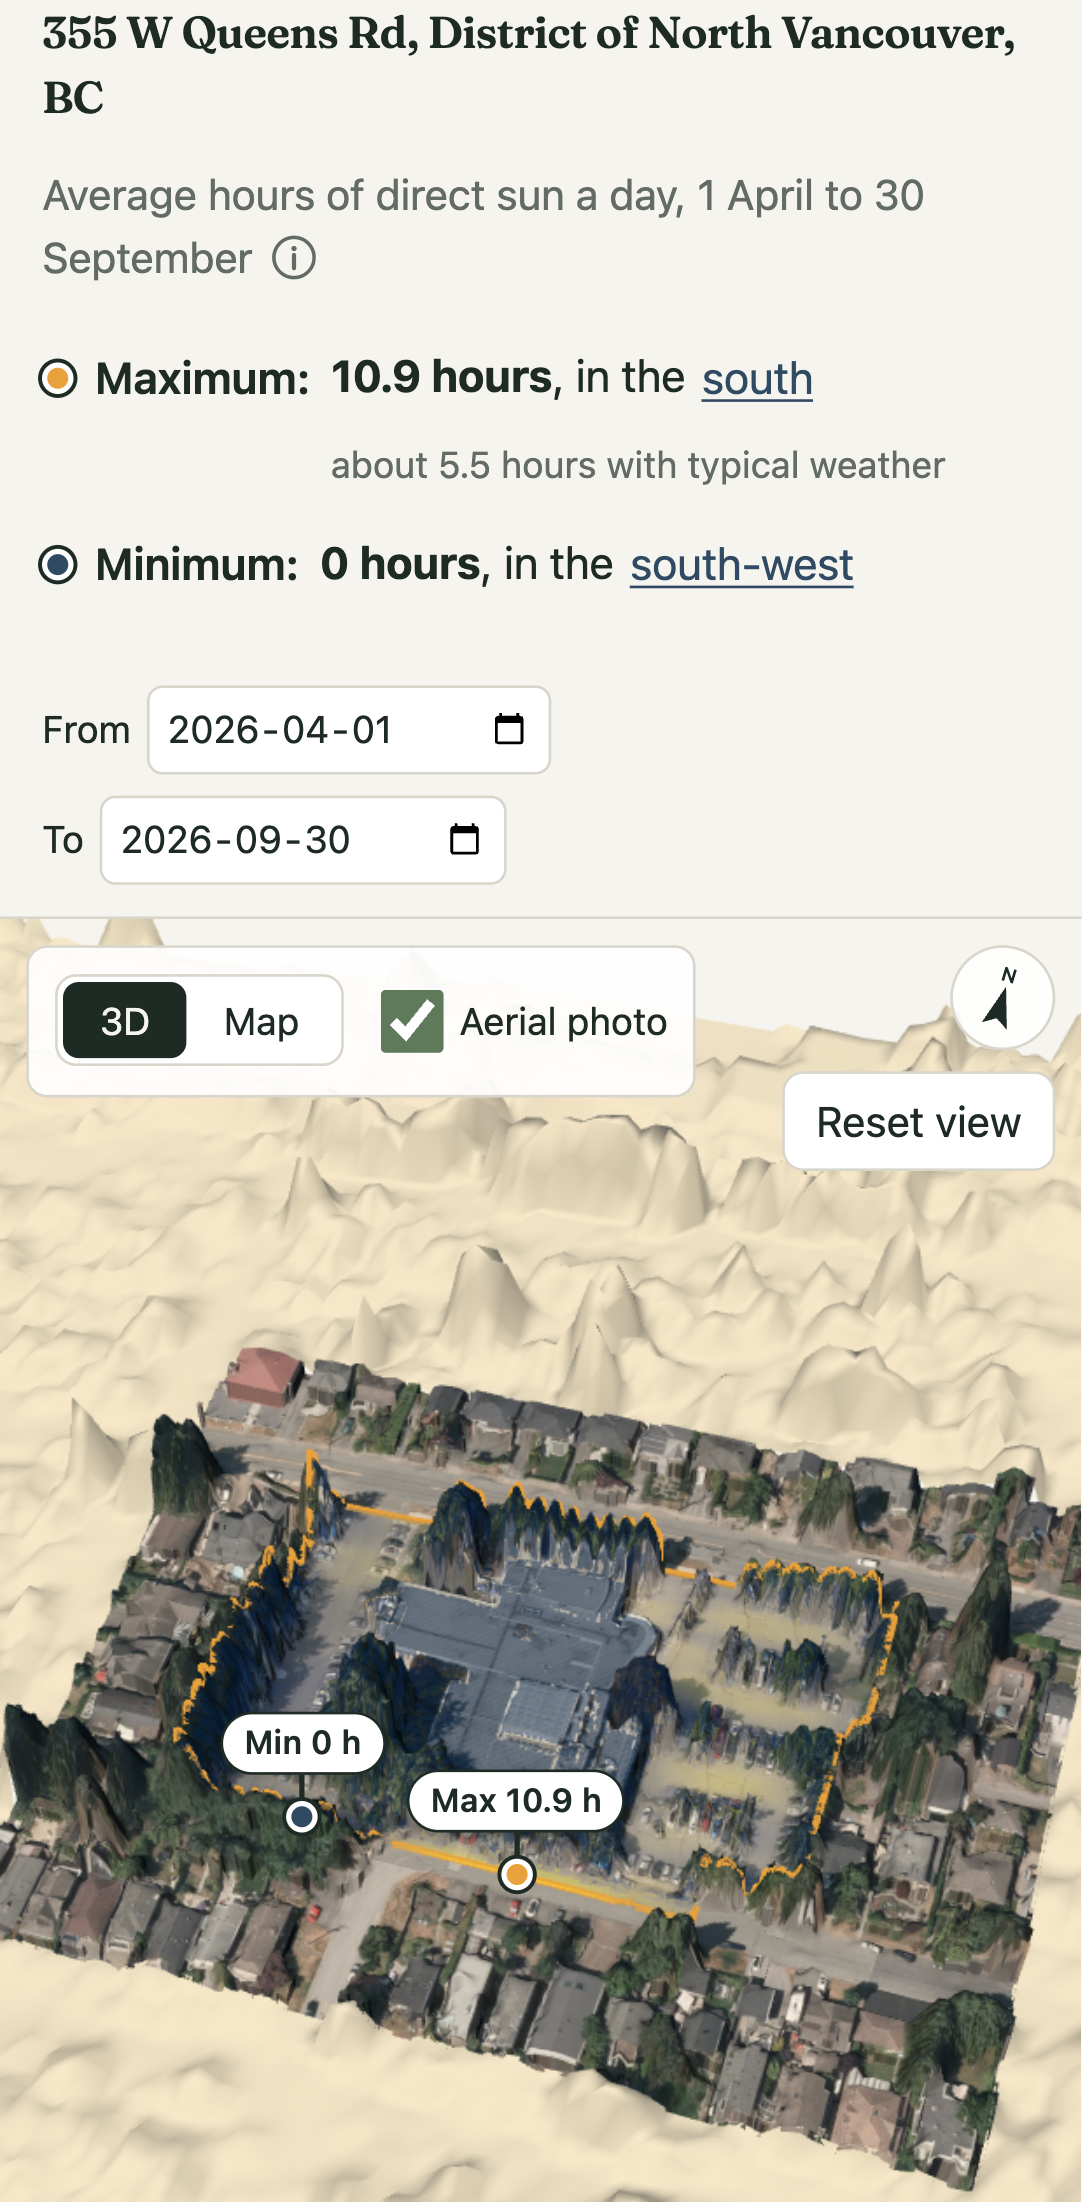
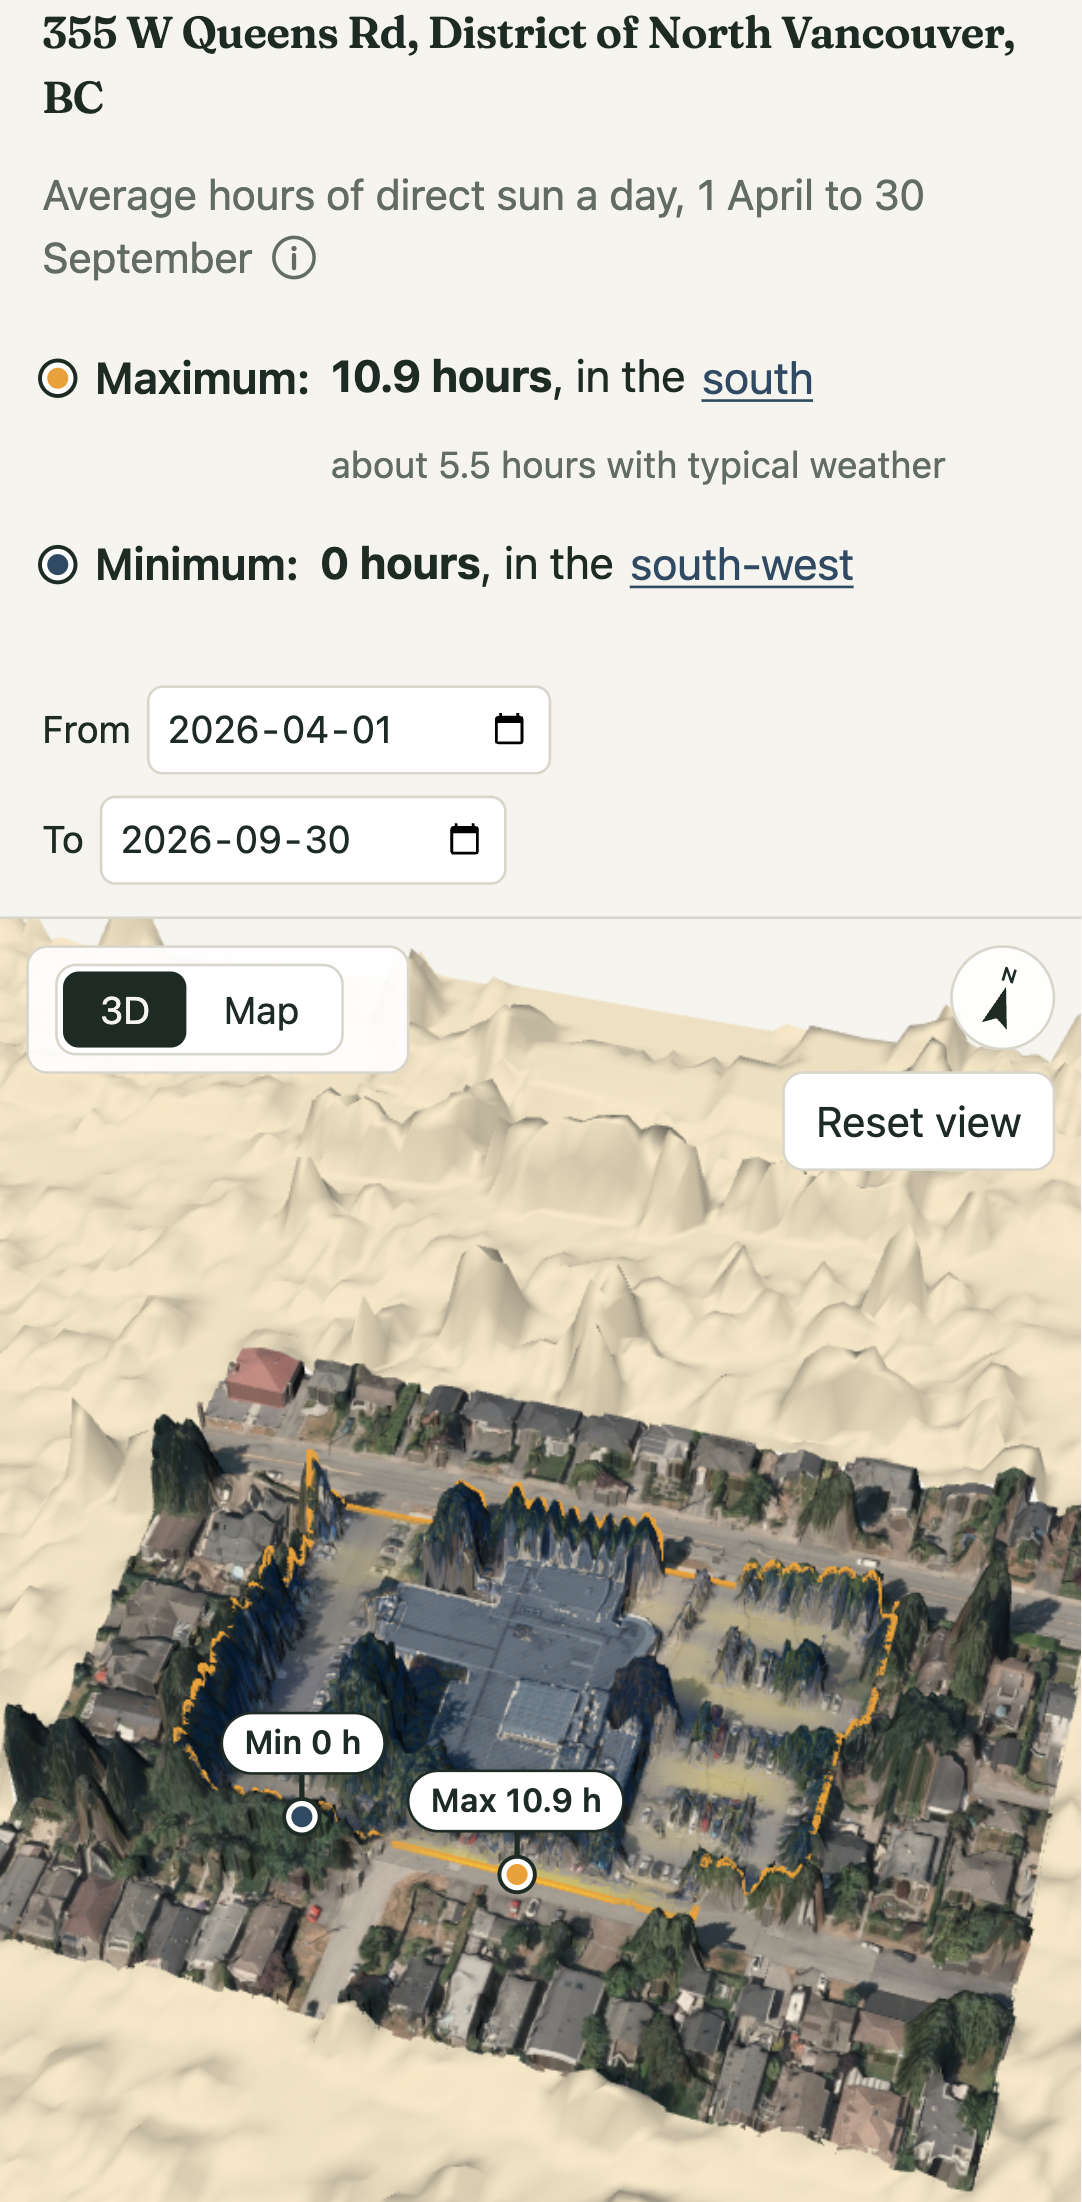
Aerial photo always on: drop its checkbox
The photo now shows in Basic and Advanced wherever the municipality
publishes one; there is no setting. Links no longer carry img=, and old
links with img=0 open with the photo on.

- The Advanced "Colour strength" slider appears only while a photo is on
  screen, and results go see-through only over a real photo (they used to
  fade over the plain model where there was none).
- Messages that mentioned switching the photo on or off are reworded.
- Docs, smoke test and README screenshots updated.

Changed region(s): [[0.0305, 0.4323, 0.6405, 0.525]]

diff --git a/src/analysis.ts b/src/analysis.ts
@@ -53,7 +53,6 @@ export interface AnalysisElements {
   resetView: HTMLButtonElement;
   caveatLidar: HTMLElement;
   aboutLidar: HTMLElement;
-  photoToggle: HTMLInputElement;
   opacityInput: HTMLInputElement;
   opacityWrap: HTMLElement;
   photoCredit: HTMLElement;
@@ -133,15 +132,12 @@ export class Analysis {
   private baseVintage: Vintage | null = null;
   private changesOn = false;
   private jurisdiction = '';
-  /** On by default; `photoChosen` says whether the visitor (or their link) asked for it. */
-  private photoOn = true;
-  private photoChosen = false;
   private opacity: number = IMAGERY.defaultOpacity;
   private photo: Photo | null = null;
   private photoSeq = 0;
   /** Called when the user switches between 3D and map (for the shareable URL). */
   onViewChange: (v: View) => void = () => {};
-  /** Called when the aerial photo or its opacity changes (for the shareable URL). */
+  /** Called when the results' opacity over the aerial photo changes (for the shareable URL). */
   onPhotoChange: () => void = () => {};
   /** Called when the elevation choice or the change overlay changes (for the shareable URL). */
   onSourceChange: () => void = () => {};
@@ -166,12 +162,7 @@ export class Analysis {
     els.shadowsToggle.addEventListener('change', () => this.scene?.setShadows(!this.basic && els.shadowsToggle.checked));
     els.compareToggle.addEventListener('change', () => void this.updateCompare());
     els.resetView.addEventListener('click', () => this.scene?.resetView());
-    els.photoToggle.addEventListener('change', () => {
-      this.setPhotoEnabled(els.photoToggle.checked);
-      this.onPhotoChange();
-    });
-    els.photoToggle.checked = this.photoOn;
-    els.opacityWrap.hidden = !this.photoOn;
+    els.opacityWrap.hidden = true; // until a photo is on screen
     els.opacityInput.addEventListener('input', () => {
       this.setResultsOpacity(Number(els.opacityInput.value));
       this.onPhotoChange();
@@ -281,22 +272,8 @@ export class Analysis {
     if (this.result) this.renderLegend(this.layer());
   }
 
-  get photoEnabled(): boolean {
-    return this.photoOn;
-  }
-
   get resultsOpacity(): number {
     return this.opacity;
-  }
-
-  /** Aerial photo under the results, in both views (also restores a shared link). */
-  setPhotoEnabled(on: boolean, chosen = true) {
-    this.photoOn = on;
-    this.photoChosen = chosen;
-    this.els.photoToggle.checked = on;
-    this.els.opacityWrap.hidden = !on;
-    this.applyOpacity();
-    void this.updatePhoto();
   }
 
   setResultsOpacity(opacity: number) {
@@ -307,7 +284,7 @@ export class Analysis {
 
   /** Results are see-through only over the photo; on the plain model they stay solid. */
   private applyOpacity() {
-    const op = this.photoOn ? this.opacity : 1;
+    const op = this.photo ? this.opacity : 1;
     this.scene?.setResultsOpacity(op);
     this.map.setLayerOpacity(op);
   }
@@ -316,13 +293,15 @@ export class Analysis {
     this.photo = null;
     this.scene?.setPhoto(null);
     this.map.setPhoto(null);
+    this.els.opacityWrap.hidden = true;
+    this.applyOpacity();
   }
 
   private async updatePhoto() {
     const seq = ++this.photoSeq;
     const credit = this.els.photoCredit;
     const lot = this.lot;
-    if (!this.photoOn || !this.loaded || !lot) {
+    if (!this.loaded || !lot) {
       this.clearPhoto();
       credit.hidden = true;
       return;
@@ -331,7 +310,7 @@ export class Analysis {
     const source = imageryFor(this.jurisdiction);
     if (!source) {
       this.clearPhoto();
-      credit.textContent = this.photoChosen ? copy.imagery.gap(this.jurisdiction) : copy.imagery.gapQuiet(this.jurisdiction);
+      credit.textContent = copy.imagery.gap(this.jurisdiction);
       return;
     }
     credit.textContent = copy.imagery.loading;
@@ -360,6 +339,8 @@ export class Analysis {
     this.photo = photo;
     this.scene?.setPhoto({ image: photo.image, uv: gridToPhotoUv(l.summary.window, photo.box) });
     this.map.setPhoto({ image: photo.image, affine: photoToLocal(photo.box, photo.image.width, photo.image.height, this.map.frame) });
+    this.els.opacityWrap.hidden = false;
+    this.applyOpacity();
   }
 
   /** Run the whole pipeline for a lot already drawn on the map. */
@@ -1162,7 +1143,7 @@ export class Analysis {
       ['Cells', `${s.cells.toLocaleString('en-CA')} at ${s.cellSizeM} m${s.dropped ? ` (${s.dropped} nodata dropped)` : ''}`],
       ['Window', `${s.window.width * s.window.res} × ${s.window.height * s.window.res} m, ${(100 * s.bufferNodataFrac).toFixed(1)}% nodata`],
       ['LiDAR', this.vintageText || '…'],
-      ['Aerial photo', this.photo ? `${this.photo.source.id}, ${this.photo.image.width} × ${this.photo.image.height} px` : this.photoOn ? 'none' : 'off'],
+      ['Aerial photo', this.photo ? `${this.photo.source.id}, ${this.photo.image.width} × ${this.photo.image.height} px` : 'none'],
       ['3D', this.scene ? `WebGL${isLowPower() ? ', low-power settings' : ''}` : this.sceneUnavailable ? 'unavailable' : '…'],
       ['Timings', Object.entries(this.timings).map(([k, v]) => `${k.replace(/Ms$/, '')} ${v} ms`).join(', ') + (this.threads > 1 ? ` (horizon on ${this.threads} threads)` : '')],
     ];

diff --git a/index.html b/index.html
@@ -101,7 +101,6 @@
               <label><input type="radio" name="view" value="map" /> Map</label>
             </fieldset>
             <div class="view-options">
-              <label class="check"><input type="checkbox" id="photo-toggle" /> Aerial photo</label>
               <label class="check" id="changes-wrap" hidden><input type="checkbox" id="changes-toggle" /> <span id="changes-label">Show changes</span></label>
               <label class="check opacity" id="opacity-wrap" hidden>Colour strength
                 <input type="range" id="results-opacity" min="0.2" max="1" step="0.05" value="0.5" aria-label="Colour strength over the photo" /></label>
@@ -342,7 +341,7 @@
         <li>BC Address Geocoder and ParcelMap BC: Province of British Columbia, <a href="https://www2.gov.bc.ca/gov/content?id=A519A56BC2BF44E4A008B33FCF527F61">Open Government Licence – British Columbia</a>.</li>
         <li>High Resolution Digital Elevation Model (HRDEM) and LiDAR point clouds (CanElevation): Natural Resources Canada, <a href="https://open.canada.ca/en/open-government-licence-canada">Open Government Licence – Canada</a>.</li>
         <li>Newer LiDAR surface and ground models (LidarBC, 2024 and 2025): Province of British Columbia, <a href="https://www2.gov.bc.ca/gov/content?id=A519A56BC2BF44E4A008B33FCF527F61">Open Government Licence – British Columbia</a>.</li>
-        <li id="about-imagery">Aerial photos, when switched on, come from each municipality's open data.</li>
+        <li id="about-imagery">Aerial photos come from each municipality's open data.</li>
         <li>Typical weather: sunshine normals for Vancouver and Abbotsford airports from Environment and Climate Change Canada, <a href="https://open.canada.ca/en/open-government-licence-canada">Open Government Licence – Canada</a>; local cloud from <a href="https://open-meteo.com/">Open-Meteo.com</a> historical weather (ECMWF and Copernicus ERA5), <a href="https://creativecommons.org/licenses/by/4.0/">CC BY 4.0</a>.</li>
         <li>Analysis answers are written by <a href="https://ai.google.dev/gemini-api">Google's Gemini</a>, from the lot's numbers shown here.</li>
         <li>Libraries: <a href="https://threejs.org/">three.js</a>, <a href="https://github.com/mourner/suncalc">SunCalc</a>, <a href="https://geotiffjs.github.io/">geotiff.js</a>, <a href="https://github.com/proj4js/proj4js">proj4js</a>, <a href="https://moment.github.io/luxon/">Luxon</a>, <a href="https://github.com/connormanning/copc.js">copc.js</a>, <a href="https://github.com/hobuinc/laz-perf">laz-perf</a>. Headings use <a href="https://github.com/undercasetype/Fraunces">Fraunces</a> (SIL Open Font License).</li>

diff --git a/src/main.ts b/src/main.ts
@@ -63,7 +63,6 @@ const analysisEls: AnalysisElements = {
   resetView: byId<HTMLButtonElement>('reset-view'),
   caveatLidar: byId('caveat-lidar'),
   aboutLidar: byId('about-lidar'),
-  photoToggle: byId<HTMLInputElement>('photo-toggle'),
   opacityInput: byId<HTMLInputElement>('results-opacity'),
   opacityWrap: byId('opacity-wrap'),
   photoCredit: byId('photo-credit'),
@@ -478,7 +477,6 @@ function urlDefaults(): UrlState {
     year: defaults.year,
     observer: defaults.observer,
     view: '3d',
-    photo: true,
     opacity: IMAGERY.defaultOpacity,
     source: 'best',
     changes: false,
@@ -510,7 +508,6 @@ function urlStateNow(): UrlState | null {
       start: c.preset === 'custom' ? c.start : undefined,
       end: c.preset === 'custom' ? c.end : undefined,
       view: analysis.currentView,
-      photo: analysis.photoEnabled,
       opacity: analysis.resultsOpacity,
       debug: debugOn,
       embed: embedOn,
@@ -528,7 +525,6 @@ function urlStateNow(): UrlState | null {
     time: minuteLabel(t.minute),
     observer: c.observer,
     view: analysis.currentView,
-    photo: analysis.photoEnabled,
     opacity: analysis.resultsOpacity,
     classes: c.classes,
     spots: c.spots,
@@ -587,7 +583,6 @@ async function applyUrl(hash: string): Promise<boolean> {
     analysis.chooseSource(s.source ?? 'best');
     analysis.setChangesEnabled(s.changes ?? false);
     analysis.setResultsOpacity(s.opacity ?? IMAGERY.defaultOpacity);
-    analysis.setPhotoEnabled(s.photo ?? true, s.photo !== undefined);
     setAdvanced(wantsAdvanced(s), false);
     const sameLot = shown && shown.match.fullAddress === s.address;
     if (sameLot && shown) {

diff --git a/tests/urlState.test.ts b/tests/urlState.test.ts
@@ -23,7 +23,6 @@ const full: UrlState = {
   shadeEnd: '2027-08-15',
   fromTime: '13:00',
   toTime: '18:30',
-  photo: true,
   opacity: 0.55,
   source: 'detailed',
   changes: true,
@@ -63,11 +62,14 @@ describe('URL hash state', () => {
     expect(decodeHash('#elev=everything&chg=maybe')).toEqual({});
   });
 
-  it('records turning off a default (the photo, the full / part sun / shade view, the pins)', () => {
-    expect(encodeHash({ photo: false, classes: false }, { photo: true, classes: true })).toBe('#cls=0&img=0');
-    expect(encodeHash({ spots: false }, { spots: true })).toBe('#spots=0');
+  it('records turning off a default (the full / part sun / shade view, the pins)', () => {
+    expect(encodeHash({ classes: false, spots: false }, { classes: true, spots: true })).toBe('#cls=0&spots=0');
     expect(decodeHash('#spots=maybe')).toEqual({});
-    expect(encodeHash({ photo: true, classes: true }, { photo: true, classes: true })).toBe('');
+    expect(encodeHash({ classes: true, spots: true }, { classes: true, spots: true })).toBe('');
+  });
+
+  it('ignores the old aerial photo setting: the photo is always on', () => {
+    expect(decodeHash('#a=453+W+12th+Ave&img=0')).toEqual({ address: '453 W 12th Ave' });
   });
 
   it('starts new visitors on the sun right now, with full / part sun / shade for days and seasons', () => {

diff --git a/e2e/smoke.spec.ts b/e2e/smoke.spec.ts
@@ -87,15 +87,13 @@ test('Basic: search → maximum and minimum hours → pins → dates → shareab
   await expect.poll(() => page.url()).toMatch(/cs=2026-06-01&ce=2026-06-30/);
   expect(page.url()).not.toMatch(/[#&](adv|t|m)=/);
 
-  // The pins follow to the map; the aerial photo is on by default and its setting goes into the link.
+  // The pins follow to the map. The aerial photo is always on, with no setting and nothing in the link.
   await page.locator('input[name="view"][value="map"]').check({ force: true });
   await expect(page.locator('.spot-pin:not([hidden])')).toHaveCount(2);
   await page.locator('input[name="view"][value="3d"]').check({ force: true });
-  await expect(page.locator('#photo-toggle')).toBeChecked();
-  await expect(page.locator('#photo-credit')).toContainText('City of Vancouver');
-  await page.locator('#photo-toggle').uncheck();
-  await expect.poll(() => page.url()).toMatch(/img=0/);
-  await page.locator('#photo-toggle').check();
+  await expect(page.locator('#photo-toggle')).toHaveCount(0);
+  await expect(page.locator('#photo-credit-item')).toContainText('City of Vancouver');
+  expect(page.url()).not.toMatch(/[#&]img=/);
 
   // A fresh page restores the lot and the dates in Basic.
   const shared = await context.newPage();

diff --git a/src/copy.ts b/src/copy.ts
@@ -115,12 +115,10 @@ export const copy = {
   lidarNearLot: (label: string) => `${label}, near the lot`,
   imagery: {
     loading: 'Loading the aerial photo…',
-    gap: (jurisdiction: string) => `No open aerial photo is published for ${jurisdiction}, so the view stays plain.`,
-    /** The same, when the photo is only on because it's the default. */
-    gapQuiet: (jurisdiction: string) => `No aerial photo is published for ${jurisdiction}; showing the 3D model.`,
+    gap: (jurisdiction: string) => `No aerial photo is published for ${jurisdiction}; showing the 3D model.`,
     noCoverage: (owner: string) => `The ${owner} aerial photo doesn't cover this lot.`,
-    failed: "The aerial photo didn't load. Try switching it off and on again in a moment.",
-    about: (items: string[]) => `Aerial photos, when switched on, come from each municipality's open data: ${items.join('; ')}.`,
+    failed: "The aerial photo didn't load; showing the 3D model. Reload the page to try again.",
+    about: (items: string[]) => `Aerial photos come from each municipality's open data: ${items.join('; ')}.`,
   },
   lidarFact: 'LiDAR from',
   lidarValue: (label: string, date: string) => `${date.slice(0, 4)} (${label})`,

diff --git a/src/urlState.ts b/src/urlState.ts
@@ -27,8 +27,7 @@ export interface UrlState {
   shadeEnd?: string;
   fromTime?: string;
   toTime?: string;
-  /** Aerial photo on, and the results' opacity over it (0.2–1). */
-  photo?: boolean;
+  /** The results' opacity over the aerial photo (0.2–1). The photo itself is always on (old `img=` links are ignored). */
   opacity?: number;
   /** Which elevation surface to use (default "best of both"). */
   source?: Source;
@@ -65,7 +64,6 @@ const KEYS: Record<keyof UrlState, string> = {
   shadeEnd: 'se',
   fromTime: 'wf',
   toTime: 'wt',
-  photo: 'img',
   opacity: 'op',
   source: 'elev',
   changes: 'chg',
@@ -129,8 +127,6 @@ export function decodeHash(hash: string): UrlState {
   if (get('embed') === '1') out.embed = true;
   const adv = get('advanced');
   if (adv === '1' || adv === '0') out.advanced = adv === '1';
-  const img = get('photo');
-  if (img === '1' || img === '0') out.photo = img === '1';
   const op = get('opacity');
   const opacity = op === null || op === '' ? NaN : Number(op);
   if (Number.isFinite(opacity) && opacity >= 0.2 && opacity <= 1) out.opacity = Math.round(opacity * 100) / 100;

diff --git a/docs/DATA_SOURCES.md b/docs/DATA_SOURCES.md
@@ -480,7 +480,7 @@ the body isn't the requested size, it's fetched again with `cache: 'reload'`.
 
 ### 7.6 Aerial photos
 
-Optional (the "Aerial photo" toggle). They come from the municipalities' own orthophoto services. All 11 are keyless, send
+Always on where a municipality publishes them (there's no setting). They come from the municipalities' own orthophoto services. All 11 are keyless, send
 CORS headers (they echo the origin; Delta sends `*`) and answer Web Mercator requests. `spike/18-imagery-check.ts` re-checks
 them all.
 
@@ -499,14 +499,14 @@ them all.
 | White Rock | `maps.whiterockcity.ca/…/opendata/Ortho2025/ImageServer/exportImage` | 2025, 7.5 cm | The City's Open Data Policy 801 releases its open data under its Open Government Licence. The service sits in its `opendata` folder but has no licence text of its own. |
 
 - **Gaps:** Richmond, the City of North Vancouver, New Westminster, West Vancouver, Port Moody, Pitt Meadows, Bowen Island and
-  the villages. These say "No open aerial photo is published for …".
+  the villages. These say "No aerial photo is published for …; showing the 3D model."
 - **Excluded:**
   - Esri World Imagery: proprietary licence, and it needs a token for basemap use.
   - BC ImageX: Access Only, `ACAO: (null)`, and the imagery is from 1999–2009.
   - `maps.vancouver.ca`: CORS is limited to vanmap.
   - Metro Vancouver's regional 7.5 cm mosaic: MrSID downloads only.
 - **Request:** the lot box + 48 m, either as one export at about 0.15 m per pixel (capped at 2,048 px) or as 16–25 z19
-  tiles. Requests happen only while the photo is switched on.
+  tiles, once per lot after the first result.
 - **Placement:** in 3D the photo drapes over the high-detail terrain around the lot through a second set of texture
   coordinates, a grid → photo affine within 2 cm of proj4. On the map, it replaces the shaded relief.
 - **Lean:** these are orthophotos, not true orthos, so tall buildings lean a little in them.

diff --git a/docs/DEVELOPMENT.md b/docs/DEVELOPMENT.md
@@ -75,7 +75,7 @@ CI (`.github/workflows/deploy.yml`) runs typecheck, tests (both TZs) and build o
   - It swaps the new surface in with `swapIn()`, which keeps the camera, remaps the inspected cell and retires results computed on the old grid. Anything that depends on the grid (photo UVs, cell indices, the change overlay) must be redone after a swap.
   - Switching surfaces reuses the worker's downloads (`elevation/cache.ts`, an LRU that hands out copies because builders write into their arrays).
   - A grid's metres per pixel is `window.res`. Never assume 1 m (mesh steps, camera distance, cursor, hillshade slopes all scale with it).
-- Aerial photos are on by default (`img=0` turns them off) and fetched once a lot's first result is up; results go see-through (`op=`) only over the photo.
+- Aerial photos are always on, in Basic and Advanced, wherever the municipality publishes them: there's no setting, and old links' `img=` is ignored. They're fetched once a lot's first result is up. Results go see-through (`op=`, the Advanced "Colour strength" slider) only while a photo is on screen; over the plain model they stay solid.
 - **First-time and non-technical users come first.**
   - The result panel opens with a plain-language headline (`Analysis.headlineText()`, `copy.headline`).
   - Technical facts (lot type, plan, LiDAR rows) live in the "Lot and data details" disclosure (`setFact(..., more = true)`); the surface choice sits under "More options".

diff --git a/README.md b/README.md
@@ -91,7 +91,7 @@ how VanShade follows it:
 - **Analysis:** a short reading of the lot from Google's Gemini (where the sun and shade fall, what suits each part), then
   your own questions, such as "Where should I plant vegetables?". It answers from the numbers VanShade shows for the lot.
 - **Aerial photo:** where the municipality publishes open orthophotos (Vancouver, Burnaby, Surrey, Coquitlam, the District of
-  North Vancouver, Delta, Maple Ridge, both Langleys, Port Coquitlam, White Rock), the photo sits under the results.
+  North Vancouver, Delta, Maple Ridge, both Langleys, Port Coquitlam, White Rock), the photo always sits under the results.
 - **Copy link:** the address, lot, dates and settings are in the URL (`adv=1` for Advanced mode). Shared links show a
   preview card in chat apps and social media.
 - **Copy embed code:** an `<iframe>` for the current lot, for a blog or a garden club page, with a link to the full site.
